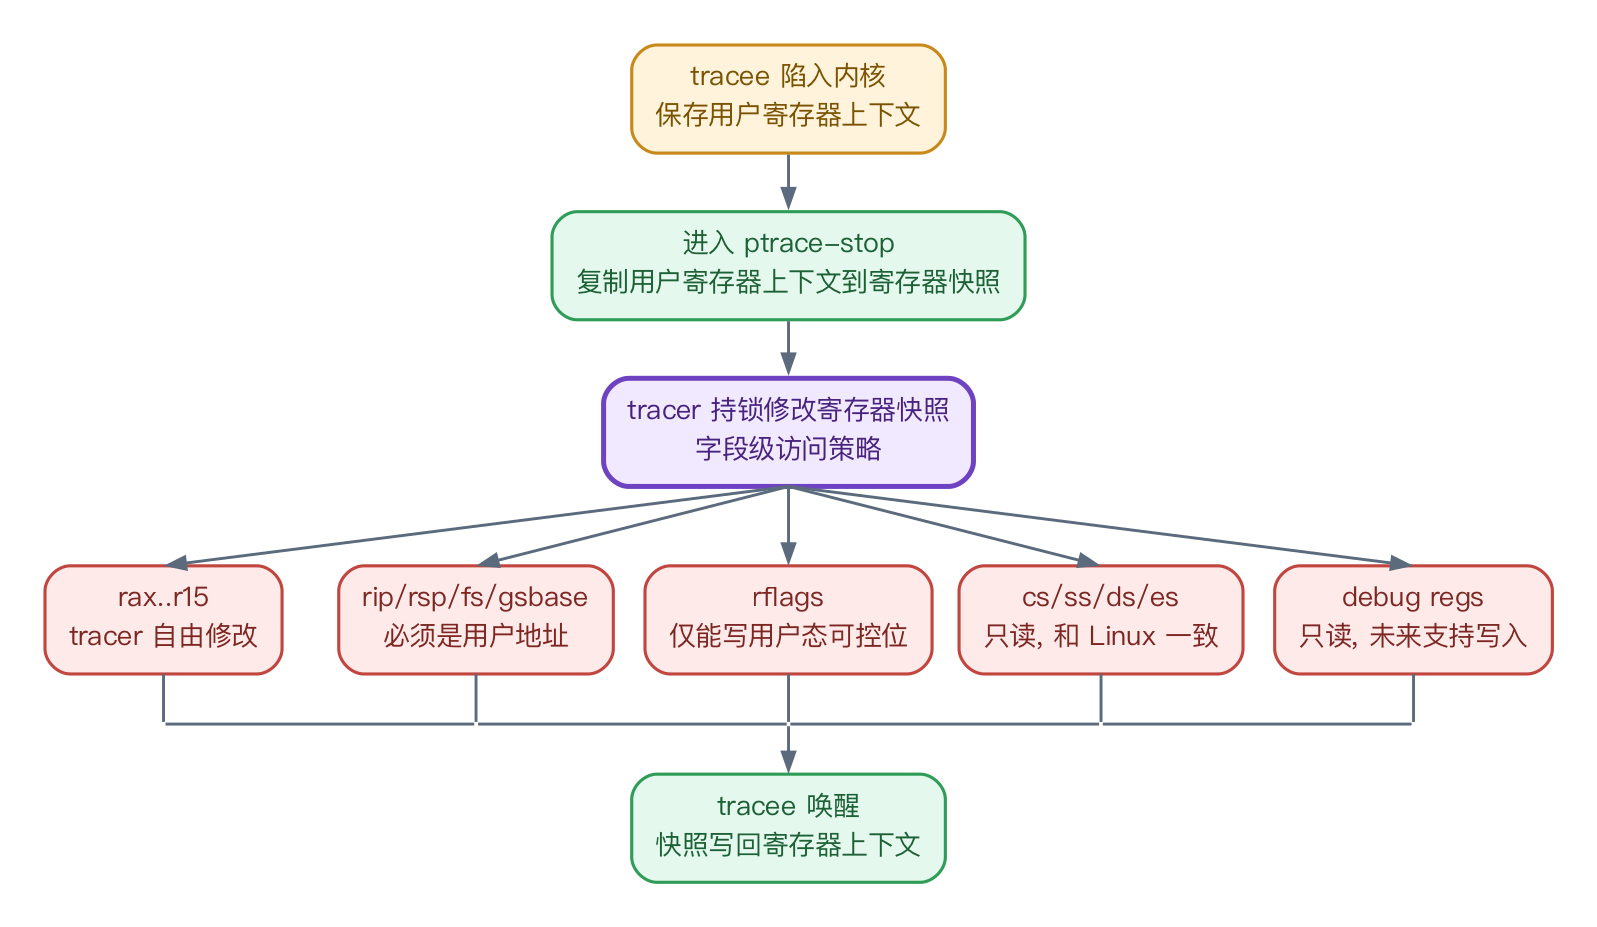
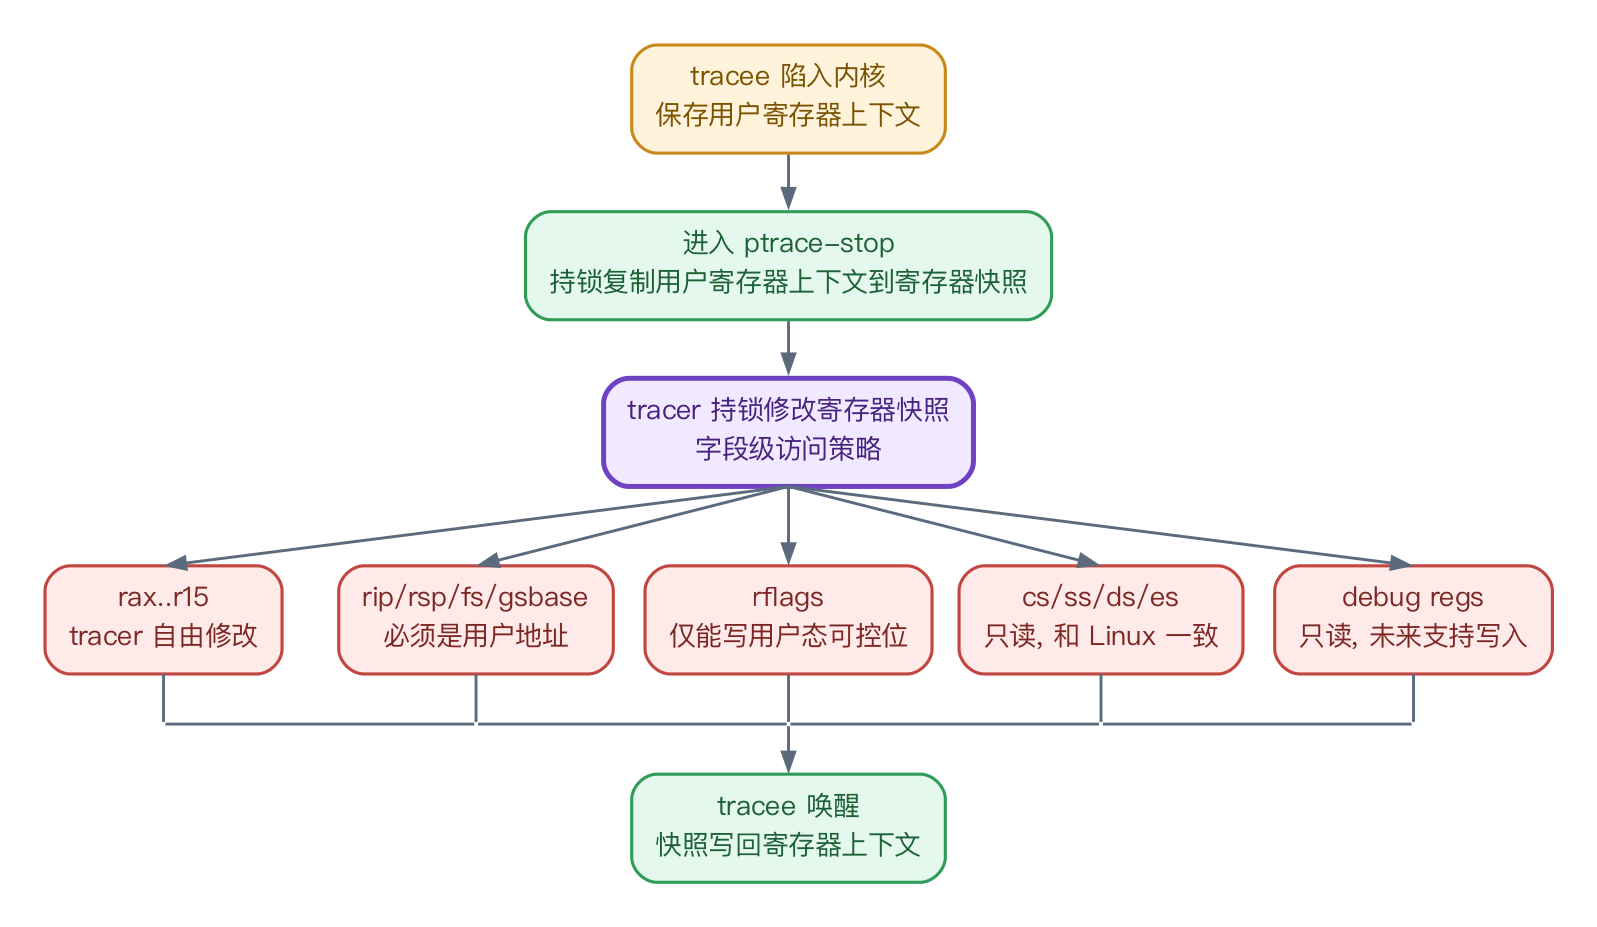
加了一页

Changed region(s): [[0.3068, 0.2114, 0.675, 0.3625]]

diff --git a/research_practice/gen_diagrams.py b/research_practice/gen_diagrams.py
@@ -256,30 +256,33 @@ b += node("src2", "/proc/&lt;pid&gt;/mem", "user", pos="450,560")
 b += node("chk", "权限 + 停止态检查", "sec", pos="320,460")
 # entry primitive
 b += node("entry", "read_alien / write_alien / fill_zeros_alien\\n统一收敛到 access_alien() 原语", "core", pos="320,360")
-# query
-b += node("query", "query_page_with_required_flags\\n在目标 VmSpace 按页查询映射、权限\\n（不切换地址空间）", "core", pos="320,250")
+# query (人话：不提 VmSpace 等类型名)
+b += node("query", "query_page_with_required_flags\\n按页查询目标进程的地址空间映射、权限\\n（不切换页表、不切换地址空间）", "core", pos="320,250")
 # branches
-b += node("frame", "命中 RAM UFrame\\nframe.reader()/writer() 直接拷贝", "mem", pos="140,110")
-b += node("fault", "缺页 / 权限不足\\nhandle_page_fault(.force()) 后重试", "event", pos="560,110")
+b += node("frame", "命中物理页帧\\n直接拷贝数据", "mem", pos="110,95")
+b += node("fault", "缺页 / 权限不足\\n主动触发缺页处理后重试", "event", pos="565,95")
 
-# edges
-b += "  src1:s -> chk:nw [arrowhead=normal];\n"
-b += "  src2:s -> chk:ne [arrowhead=normal];\n"
+# spine
+b += "  src1:s -> chk:nw;\n"
+b += "  src2:s -> chk:ne;\n"
 b += "  chk:s -> entry:n;\n"
 b += "  entry:s -> query:n;\n"
-b += '  query:sw -> frame:n [color="#2F9D57"];\n'
-b += '  query:se -> fault:n [color="#C0463F"];\n'
-# retry loop: out fault east, up, back into query east
-b += '  wp1 [shape=point, width=0.01, style=invis, pos="720,110"];\n'
-b += '  wp2 [shape=point, width=0.01, style=invis, pos="720,250"];\n'
+# clean symmetric branch: query:s -> junction -> frame / fault
+b += '  jct [shape=point, width=0.01, style=invis, pos="320,180"];\n'
+b += '  query:s -> jct [arrowhead=none, color="#5b6b7d"];\n'
+b += '  jct -> frame:ne [color="#2F9D57"];\n'
+b += '  jct -> fault:nw [color="#C0463F"];\n'
+# retry loop: out fault east, up, back into query east（直角，不交叉）
+b += '  wp1 [shape=point, width=0.01, style=invis, pos="710,95"];\n'
+b += '  wp2 [shape=point, width=0.01, style=invis, pos="710,250"];\n'
 b += '  fault:e -> wp1 [arrowhead=none, color="#C0463F", style=dashed];\n'
 b += '  wp1 -> wp2 [arrowhead=none, color="#C0463F", style=dashed];\n'
 b += '  wp2 -> query:e [color="#C0463F", style=dashed];\n'
 
 # labels (separate white-bg text boxes)
-b += tlabel("l_frame", "映射存在且权限满足", "170,185", color="#1c6035")
-b += tlabel("l_fault", "需要处理", "490,185", color="#7d2723")
-b += tlabel("l_retry", "重试", "720,185", color="#7d2723")
+b += tlabel("l_frame", "映射存在且权限满足", "225,150", color="#1c6035")
+b += tlabel("l_fault", "需要处理", "405,150", color="#7d2723")
+b += tlabel("l_retry", "重试", "710,175", color="#7d2723")
 
 dot7 = ('digraph G {\n'
   f'  graph [fontname="{FONT}", bgcolor="white", pad="0.3", splines=true];\n'
@@ -634,6 +637,68 @@ for (nid, _, _, _) in ring:
     parts.append(f'  hub -> {nid} [color="#2F9D57"];')
 parts.append('}')
 render("00_background", "\n".join(parts), engine="neato", extra_args=["-n1"])
+
+# =====================================================================
+# 4b. tracer / tracee 同步：TraceeStatus 上的一把锁 + is_stopped 原子标志
+#     固定坐标（neato -n1）：双泳道 + 中间共享对象
+# =====================================================================
+b = ""
+
+def fnode(nid,label,kind,pos,w,h=0.62,fs=12,bold=False):
+    fill,border,font=PAL[kind]
+    style="rounded,filled,bold" if bold else "rounded,filled"
+    return (f'  {nid} [label="{label}", fillcolor="{fill}", color="{border}", fontcolor="{font}", '
+            f'shape=box, style="{style}", fixedsize=true, width="{w}", height="{h}", '
+            f'fontsize="{fs}", pos="{pos}"];\n')
+
+# TIME flows top -> bottom as a staircase:
+#  tracee (top): t1 t2 t3 ; tracer (middle, below t3): r4 r5 r6 ; tracee (bottom): t7
+#  center TraceeStatus sits in the gap; only two cross arrows: SIGCHLD (over it) + wake (under it)
+# LEFT lane x=150 ; CENTER x=470 ; RIGHT x=800
+
+# --- TRACEE lane TOP ---
+b += fnode("t_title","tracee 线程","core","150,600",2.0,0.55,13,True)
+b += fnode("t1","tracee 触发停止\\ndo_ptrace_stop","core","150,520",2.4,0.66)
+b += fnode("t2","① 持锁写快照、is_stopped=true\\n再释放锁","core","150,425",2.7,0.74)
+b += fnode("t3","③ 挂起\\npause_until(!is_stopped)","core","150,335",2.6,0.72)
+
+# --- TRACER lane MIDDLE (all below t3) ---
+b += fnode("r_title","tracer 线程","user","800,395",2.0,0.55,13,True)
+b += fnode("r4","④ wait：持锁 + 查 is_stopped","user","800,315",2.9,0.66)
+b += fnode("r5","⑤ 读/改寄存器快照\\n持锁 + check_ptrace_stopped","user","800,215",2.9,0.74)
+b += fnode("r6","⑥ resume：持锁\\nis_stopped = false","user","800,115",2.9,0.66)
+
+# --- TRACEE lane BOTTOM (below r6) ---
+b += fnode("t7","⑦ 被唤醒，持锁读回快照\\n继续运行","core","150,85",2.7,0.66)
+
+# --- CENTER: shared TraceeStatus (flush stacked, sits in the middle gap) ---
+cw=3.3
+b += fnode("c_title","TraceeStatus 共享对象","sec","470,262",cw,0.46,13,True)
+b += fnode("c_mtx","state: Mutex<TraceeState>\\n寄存器快照、待决信号、event、options","sec","470,220",cw,0.72,11)
+b += fnode("c_atom","is_stopped: AtomicBool","sec","470,178",cw,0.46,12)
+
+# ============ EDGES ============
+# tracee vertical flow (green) — top group
+b += '  t1:s -> t2:n [color="#2F9D57"];\n'
+b += '  t2:s -> t3:n [color="#2F9D57"];\n'
+# tracer vertical flow (amber) — middle group
+b += '  r4:s -> r5:n [color="#C8881A"];\n'
+b += '  r5:s -> r6:n [color="#C8881A"];\n'
+# ② SIGCHLD : tracee (AFTER t2, lock released) -> tracer wait r4，直线掠过共享对象上方
+b += '  t2:e -> r4:w [color="#2F9D57"];\n'
+# ⑥ resume -> tracee wake : r6 -> t7，直线掠过共享对象下方
+b += '  r6:w -> t7:e [color="#2F9D57"];\n'
+
+# text labels
+b += tlabel("L_sigchld","② SIGCHLD + 唤醒 wait","500,382","#2F9D57")
+b += tlabel("L_wake","⑥ is_stopped=false，唤醒 tracee","505,92","#2F9D57")
+
+dotS = ('digraph G {\n'
+  f'  graph [fontname="{FONT}", bgcolor="white", pad="0.3", splines=true];\n'
+  f'  node [fontname="{FONT}", shape=box, style="rounded,filled", penwidth=1.5, margin="0.16,0.10", fontsize=12];\n'
+  f'  edge [fontname="{FONT}", color="#5b6b7d", penwidth=1.4, arrowsize=0.85, fontsize=11];\n'
+  + b + '}\n')
+render("04b_sync", dotS, engine="neato", extra_args=["-n1"])
 
 print("ALL DONE ->", OUT)
 
